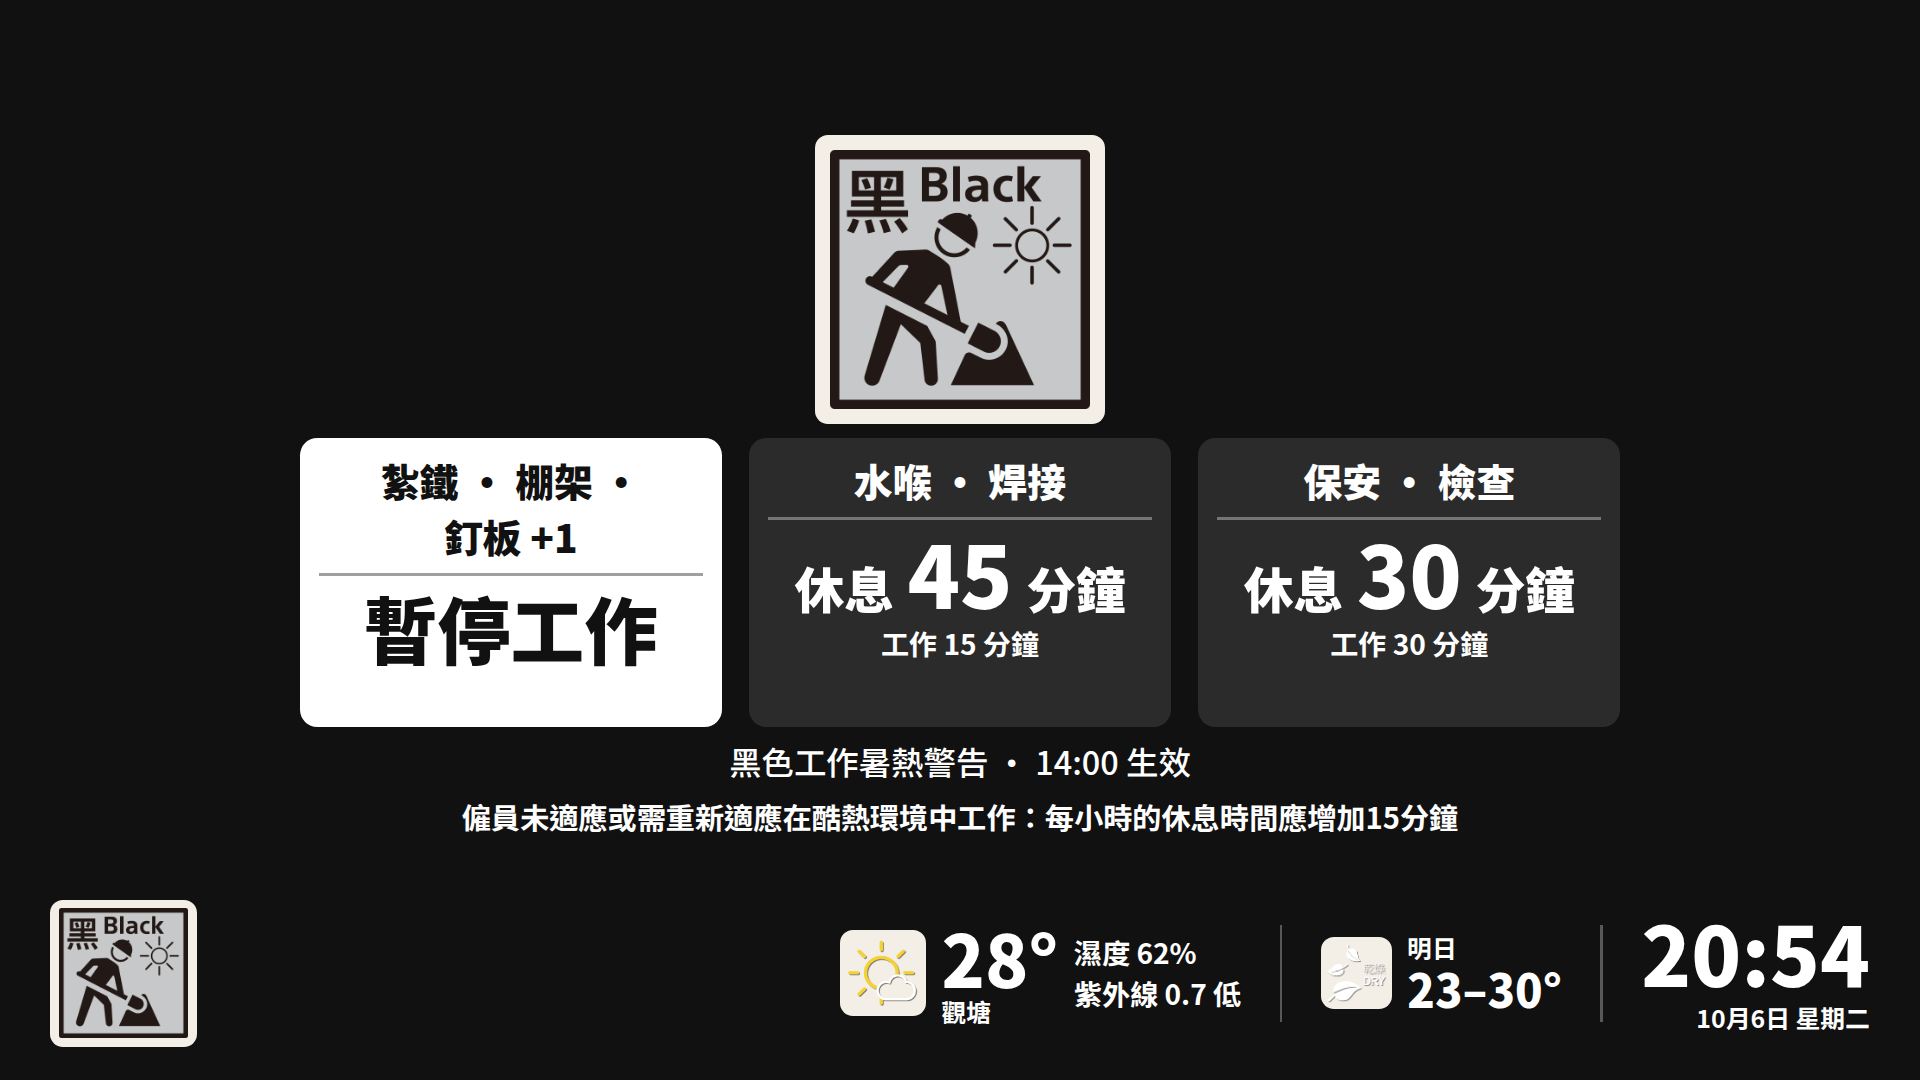
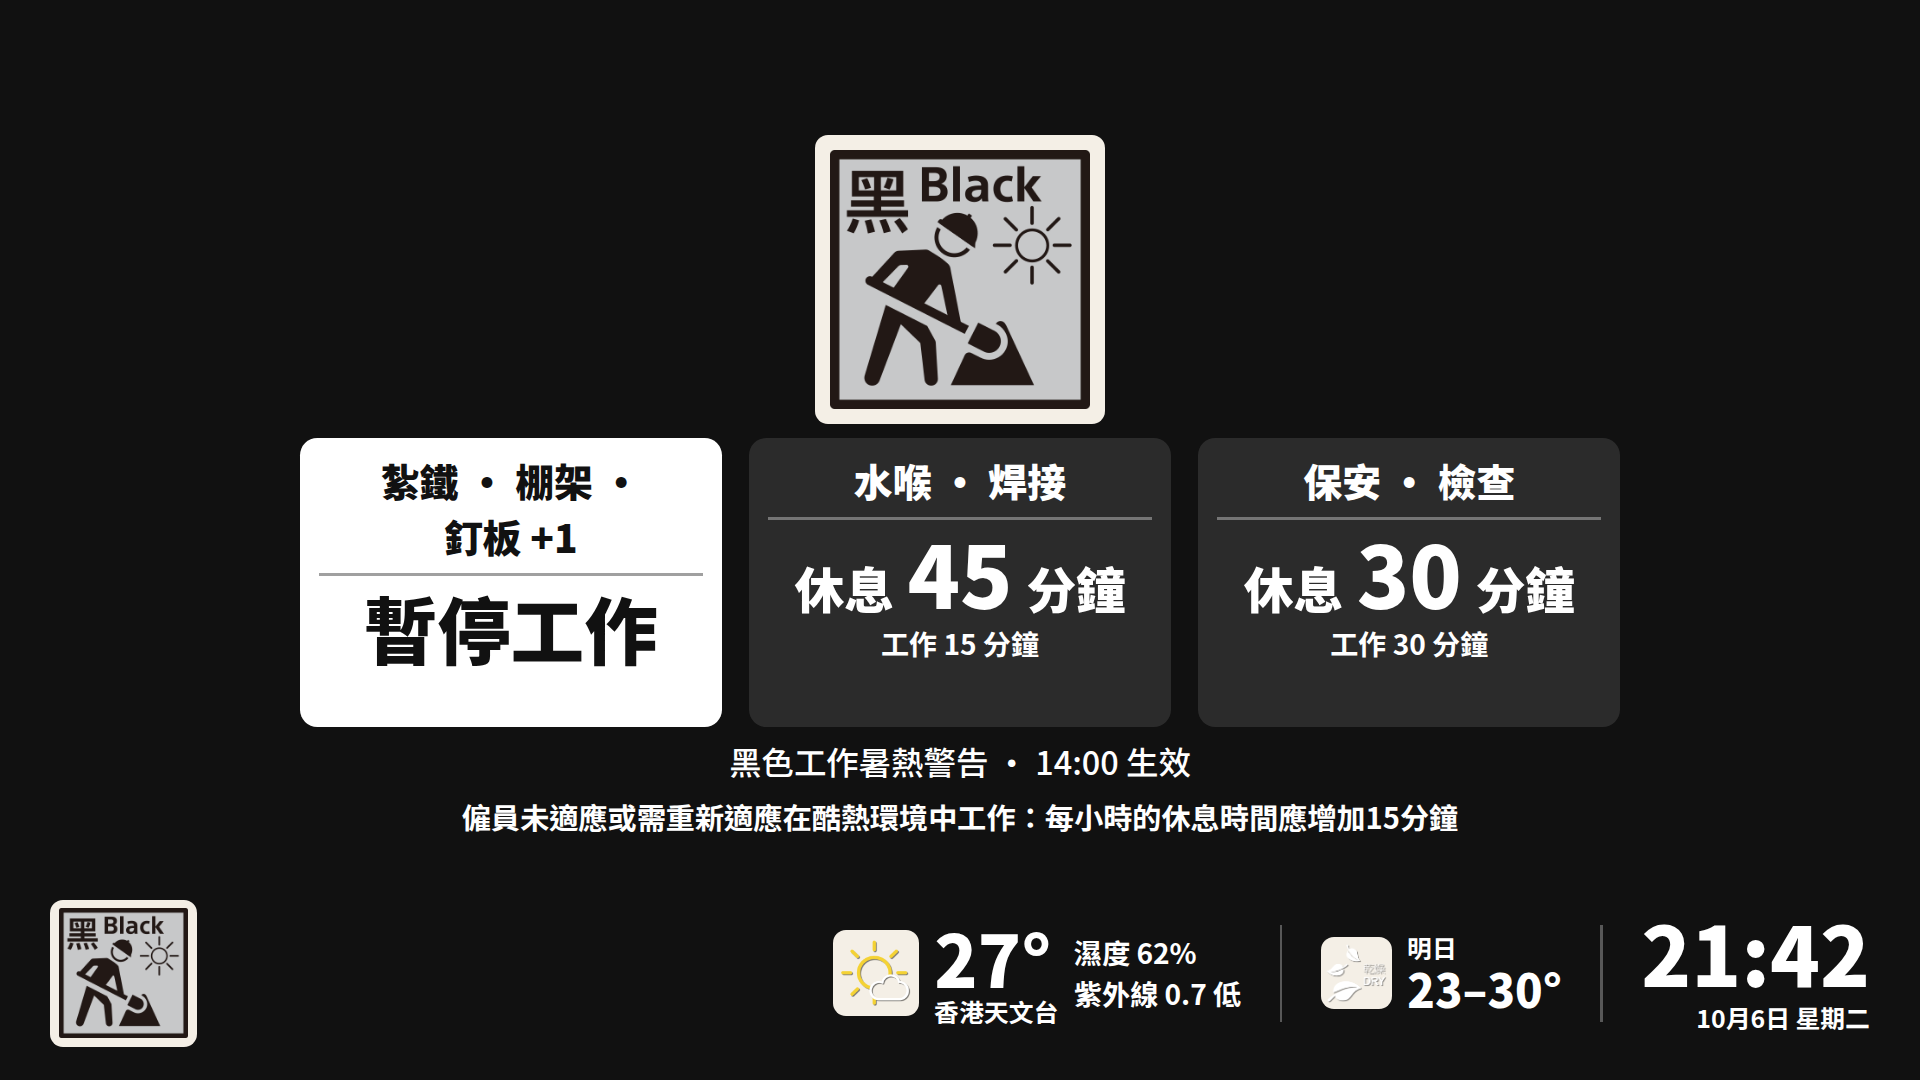
docs: weather station by location
Design spec, README section (what is sent, ?loc=0, https), an AGENTS.md
rule, the April checklist item, and regenerated demo screenshots, which
now show 香港天文台 instead of 觀塘.

Changed region(s): [[0.4062, 0.8556, 0.5625, 0.9472], [0.875, 0.8556, 0.9688, 0.9167]]

diff --git a/docs/superpowers/specs/2026-10-06-weather-station-by-location-design.md b/docs/superpowers/specs/2026-10-06-weather-station-by-location-design.md
@@ -1,0 +1,68 @@
+# Weather station by location: design
+
+Date: 2026-10-06. Builds on `2026-10-06-gate-screen-upgrade-design.md` §4.8.
+
+## 1. Goal
+
+The temperature on the bottom bar should come from the HKO station nearest the screen. The page may ask the browser for the screen's location. With no location, it shows the general HKO reading, 香港天文台, instead of the demo site's 觀塘.
+
+## 2. Behaviour
+
+| Situation | Station shown |
+|---|---|
+| Location allowed and usable | The nearest station that has a temperature in the latest `rhrread` report |
+| No location: refused, unavailable, still waiting, `?loc=0`, or a plain `http://` page | The site's `weatherStation` if set, else 香港天文台 |
+| Location too coarse (accuracy over 5 km, typical of an IP-based guess) | As "no location" |
+| Location more than 15 km from every station (not in Hong Kong) | As "no location" |
+| The chosen station has no reading | The next candidate in the order above, ending at 香港天文台 |
+| 香港天文台 has no reading either | No weather block, as today |
+
+The screen never waits for the browser: it renders at once and switches station when a position arrives. The position never touches warnings, rest times or wording.
+
+Humidity is shown only with 香港天文台. HKO's current-weather report gives humidity for that one station, so showing it next to another station's temperature would misattribute it. (Before this change it was shown next to 觀塘.) UV is HKO's single King's Park reading and stays as it was.
+
+## 3. Decisions
+
+**The backend chooses the station; the browser only reports where it is.** The kiosk adds `?lat=&lon=&acc=` to the snapshot request. `app/stations.py` holds the geometry, the accuracy and distance limits, and the choice among stations that currently report. This keeps the logic in the tested Python and the kiosk thin, in line with "backend builds all".
+
+*Alternative considered:* the browser picks the station from a coordinates list and sends only a name, so no position leaves the device. Rejected for now: it needs a second endpoint and TypeScript logic that has no test runner in CI (the kiosk has none), and the position sent is only the screen's own location, rounded to about 1 km. It would be a reasonable change if a deployment must never send a position at all.
+
+**Privacy.** The kiosk rounds the position to 2 decimals (about 1 km) and the accuracy up to 100 m before sending, which is all that is needed when stations are several km apart. The service reads it for one request and keeps nothing. uvicorn's access log is filtered so it shows `lat=-&lon=-&acc=-`. The browser keeps the last position in `localStorage` (`hksd.fix`) so a reload shows the right station at once. It is cleared when the permission is refused.
+
+**Lenient parsing.** `lat`, `lon` and `acc` are read as text. A bad value means "no position", never a 422, because a malformed query must not blank a safety display.
+
+**Fallback configuration.** `weatherStation` in the site config now means the fallback station, not a fixed one, and must be a known HKO station (validated at startup). `district` no longer selects a station; it was only ever used for that, so it was removed from the demo config.
+
+## 4. Data
+
+`config/hko_stations.json` lists the 27 stations in HKO's current-weather report (`rhrread.temperature.data[].place`) with coordinates from HKO's *Information of Weather Station* page (https://www.hko.gov.hk/en/cis/stn.htm), checked 2026-10-06. The report names stations differently from that page, so `scripts/fetch_hko_stations.py` maps each report name to an HKO station code and fails if the code is missing or does not measure air temperature. Non-obvious mappings:
+
+| Report name | Station | Why |
+|---|---|---|
+| 赤鱲角 | HKA, Hong Kong International Airport | The airport's own station |
+| 青衣 | TY1, New Tsing Yi Station | Ching Pak House (CPH) measures no air temperature |
+| 荃灣可觀 | TWN, "Tsuen Wan" | Opened 2006-04-25 with the Ho Koon centre; the other Tsuen Wan station is 城門谷 |
+| 屯門 | TU1, Tuen Mun Children and Juvenile Home | Tuen Mun Government Offices (TUN) is a wind station |
+| 大埔 | YCT, Tai Po (Yuen Chau Tsai Park) | The station moved there on 2022-04-01 |
+
+Stations farther than 15 km from a screen are not used. The limit is set from sample places: every populated part of Hong Kong is within 10 km of a station (Lantau south and Discovery Bay are the farthest), Tap Mun is 12.6 km, Macau is 41 km.
+
+## 5. Kiosk
+
+`src/locate.ts` (`useFix`) runs when the page is live, and only if `window.isSecureContext` and `navigator.geolocation` exist.
+
+1. Start from the remembered position, so the first request can already carry it.
+2. If the Permissions API reports `denied`, forget the position and stop. Otherwise call `getCurrentPosition` (low accuracy, 30 s timeout, browser cache up to 5 min), which makes the browser show its own prompt when needed.
+3. On a fix, remember and use it, and read it again in 30 minutes. On `PERMISSION_DENIED`, forget it and stop. On any other error, retry after 1, 5, 15, then every 30 minutes.
+4. If the permission later becomes `granted` (the Permissions API `change` event), try again at once.
+
+`Kiosk.tsx` appends the position to `/api/v1/snapshot` and restarts its poll when the position changes. `?loc=0` turns the whole thing off.
+
+## 6. Testing
+
+- pytest: station table well formed; every station in a real 27-station report (`tests/fixtures/rhrread_full.json`) has coordinates; nearest-station cases for known places, unreported stations, out-of-Hong-Kong and coarse fixes; query parsing of bad values; the snapshot with and without a position; the API end to end; the access-log filter; a position never changes warnings, tiles or banner.
+- Browser (Playwright on Chrome, run by hand, not in CI): allowed (shows 觀塘, sends the rounded query, remembers it), not allowed, far away, coarse, `?loc=0` (no call), once on load, cached position on first request, retry after a failed read, permission granted after load, refusal clears the cache, and the longest names (啟德跑道公園, 荃灣城門谷) in landscape and portrait.
+
+## 7. Rollout and re-verification
+
+Deploy ingest and web in either order: an older ingest ignores the query, and an older kiosk sends none. Allow the location once on each screen. `python3 scripts/fetch_hko_stations.py --check` is item 4 of the April checklist (§9 of the main spec).

diff --git a/README.md b/README.md
@@ -2,7 +2,7 @@
 
 Hong Kong construction **site notice**: live Labour Department Heat Stress at Work Warning (HSWW) and HKO weather warnings on one screen at the gate.
 
-Official HKO / Labour Department icons and wording only. Every state uses one centred layout, in landscape or portrait: a large official icon, the instruction, and a bottom bar with every warning in force, district weather, tomorrow's forecast and the clock. On heat-stress days the instruction becomes one tile per rest time, labelled with the site's trades. Not a 4S system. Not a sensor product.
+Official HKO / Labour Department icons and wording only. Every state uses one centred layout, in landscape or portrait: a large official icon, the instruction, and a bottom bar with every warning in force, the temperature at the nearest HKO station, tomorrow's forecast and the clock. On heat-stress days the instruction becomes one tile per rest time, labelled with the site's trades. Not a 4S system. Not a sensor product.
 
 ## Live demo
 
@@ -57,13 +57,27 @@ Each feed is cached separately, and a failing feed keeps its last value.
 
 Icons: `apps/kiosk/public/official/` (see its README). Refresh them with `python3 scripts/fetch_official_icons.py`.
 
+## Weather station and location
+
+The temperature on the bottom bar comes from an HKO station, and the station's name is shown under it.
+
+- The page asks the browser for the screen's location. If it is allowed, the screen shows the nearest HKO station that is reporting a temperature.
+- With no location (refused, unavailable, too coarse to be useful, outside Hong Kong, or the page is plain `http://`, since browsers only allow location on `https://` and `localhost`), it shows 香港天文台, the general HKO reading. A site can name another fallback with `weatherStation`.
+- The screen never waits for the browser's answer, and the location never affects warnings, rest times or wording.
+- Humidity is shown only with 香港天文台, because that is the only station HKO reports it for.
+- `?loc=0` on the URL stops the page asking, for a screen where nobody can answer the browser's prompt. Allow the location once when setting a screen up and the browser remembers it.
+
+What is sent: the position rounded to about 1 km (`/api/v1/snapshot?lat=22.32&lon=114.22&acc=100`), only to choose the station. The service does not store it, and the access log shows `lat=-&lon=-&acc=-`. The screen keeps its last position in the browser's local storage so a reload shows the right station straight away.
+
+Stations and coordinates are HKO's own (https://www.hko.gov.hk/en/cis/stn.htm). Refresh them with `python3 scripts/fetch_hko_stations.py` (`--check` only reports drift).
+
 ## Site config
 
 `config/sites/demo-site.json`. Copy it, and do not commit real site names.
 
 | Field | Meaning |
 |---|---|
-| `district`, `weatherStation` | HKO temperature station shown on screen (defaults to `district`, then 香港天文台) |
+| `weatherStation` | HKO station shown when the screen has no location (default 香港天文台); must be a name in `config/hko_stations.json` |
 | `environment` | `outdoor`, `indoor` (no air-conditioning) or `aircon`; the default for every trade |
 | `restAdjustMinutes` | Employer's adjustment under LD guidance §5.3–5.5: a multiple of 15, from −30 to +60 |
 | `defaultWorkload` | `light`, `moderate`, `heavy` or `very_heavy` |
@@ -81,7 +95,7 @@ cd apps/kiosk && npm install && npm run dev
 
 On Windows, use `.venv/Scripts/python.exe` in place of `.venv/bin/python`.
 
-- http://localhost:5173/ — live fullscreen
+- http://localhost:5173/ — live fullscreen (the browser asks for the location; add `?loc=0` to skip it)
 - http://localhost:5173/?preview=1 — fixture preview (add `&bar=0` to hide the buttons)
 - http://localhost:5173/?gallery=1 — every official icon and signal case
 

diff --git a/docs/superpowers/specs/2026-10-06-gate-screen-upgrade-design.md b/docs/superpowers/specs/2026-10-06-gate-screen-upgrade-design.md
@@ -212,8 +212,8 @@ WRAINR and WL are weather states, so their supervisor instructions are covered b
 
 - **Current weather** (rhrread, `lang=tc`):
   - The icon is `icon[0]` → `official/wxicon/pic{code}.png`.
-  - Temperature comes from the site's `weatherStation` (default: the site's `district`). If that station is missing, use 香港天文台 and show that place name instead.
-  - Humidity comes from 香港天文台, the only station HKO reports for it.
+  - Temperature comes from the station nearest the screen's position, else the site's `weatherStation`, else 香港天文台; the place name is always shown (see `2026-10-06-weather-station-by-location-design.md`).
+  - Humidity is shown only next to 香港天文台, the only station HKO reports it for.
   - UV shows `value` and `desc` from 京士柏 (e.g. 紫外線 5 中等). It is hidden when the feed returns an empty string, for example at night.
 - **Tomorrow** (fnd, `lang=tc`): the first `weatherForecast` entry with `forecastDate` later than today (HKT). It shows `ForecastIcon`, `forecastMintemp` and `forecastMaxtemp` as 明日 23–30°.
 - **Freshness:** hide the weather block if rhrread `updateTime` is more than 90 minutes old. Hide the forecast if fnd `updateTime` is more than 12 hours old.
@@ -251,8 +251,6 @@ WRAINR and WL are weather states, so their supervisor instructions are covered b
 {
   "siteId": "demo-kai-tak",
   "nameZh": "示範地盤",
-  "district": "觀塘",
-  "weatherStation": "觀塘",
   "environment": "outdoor",
   "restAdjustMinutes": 0,
   "defaultWorkload": "very_heavy",
@@ -399,7 +397,7 @@ The legacy fields `display.action` and `display.actionSub` are still filled in, 
 | warningInfo fails | Keep the last value; Pre-8 detection uses the cached data |
 | rhrread fails or is >90 min old | Hide the weather block; nothing else changes |
 | fnd fails or is >12 h old | Hide the forecast |
-| `weatherStation` missing from rhrread | Use 香港天文台 and show that name |
+| A station has no reading in rhrread | Use the next candidate (nearest station, then the site's `weatherStation`, then 香港天文台) and show its name |
 | Unknown weather icon code | Hide the icon, keep the numbers |
 | UV empty string | Hide UV |
 | Effective time can't be parsed | Use the message time `date` |
@@ -456,6 +454,7 @@ Run this each April, before the hot season, and whenever LD or HKO announce revi
 1. Re-download the two LD PDFs and compare edition, App. 1, App. 4, App. 4(a), §4.7.1, §5.4.4, §5.5.4 and App. 6 with `rest_schedule.json` and `display_actions.json`.
 2. Re-read the HKO advice pages in §3 and update the quotes. The wording-guard test then forces matching screen text.
 3. Update `sources[*].checked` dates.
+4. Run `python3 scripts/fetch_hko_stations.py --check`. It compares `config/hko_stations.json` with HKO's station page and reports any station in the live weather report that has no coordinates yet.
 
 ## 10. Known gaps (later sub-projects)
 

diff --git a/AGENTS.md b/AGENTS.md
@@ -6,3 +6,4 @@
 - Rest numbers live in `config/rest_schedule.json` only. UI must not hardcode minutes.
 - Instruction text lives in `config/display_actions.json`. Every displayed fragment must be a verbatim, contiguous part of a quoted official sentence; `tests/test_display_actions.py` enforces this. Never paraphrase official wording.
 - Re-verify the official sources every April and whenever LD or HKO announce revisions (checklist: `docs/superpowers/specs/2026-10-06-gate-screen-upgrade-design.md` §9).
+- The screen's position only chooses the weather station. It must never influence warnings, rest times or wording, and must stay out of logs. Show humidity only with 香港天文台. Station coordinates live in `config/hko_stations.json` (`scripts/fetch_hko_stations.py`).
